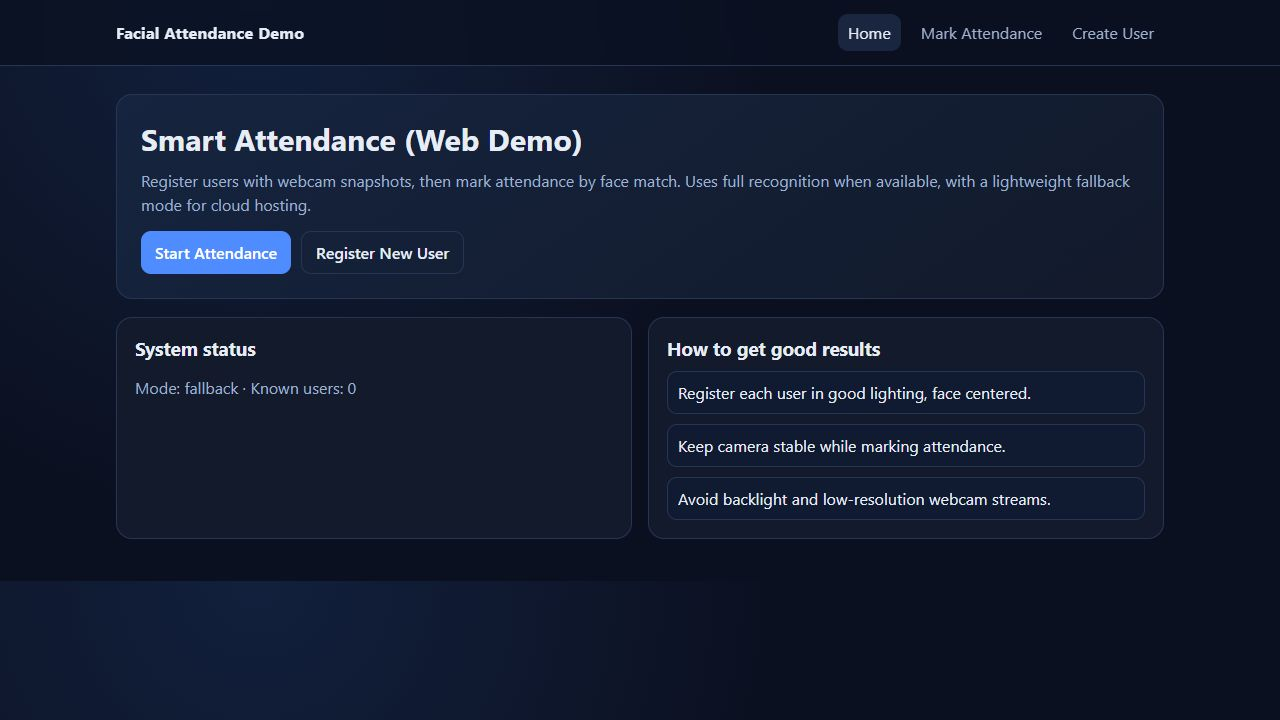
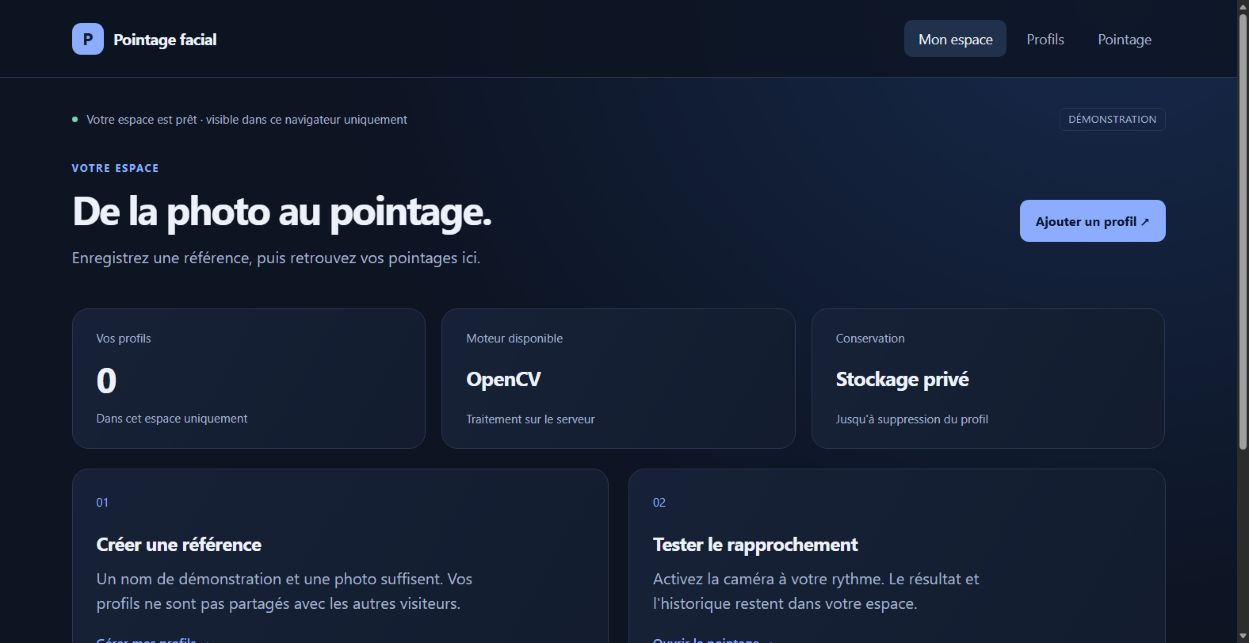
Refresh portfolio previews and describe the deployed vision workflows

diff --git a/src/data/projects.js b/src/data/projects.js
@@ -29,13 +29,13 @@ export const projects = [
     summary: { fr: "Reconnaître des signes de l’alphabet américain depuis une webcam, grâce aux repères de la main.", en: "Recognising American Sign Language alphabet signs from a webcam using hand landmarks." },
     role: { fr: "Projet de hackathon · 2e place IEEE CS", en: "Hackathon project · IEEE CS 2nd place" },
     context: { fr: "Un projet de vision par ordinateur orienté accessibilité, développé en équipe lors d’un hackathon IEEE Computer Society. Le dépôt actuel comprend une application web et un parcours d’entraînement reproductible.", en: "An accessibility-oriented computer vision project built with a team at an IEEE Computer Society hackathon. The current repository includes a web application and a reproducible training workflow." },
-    work: { fr: ["Extraction des repères de la main avec MediaPipe et traitement des images avec OpenCV.", "Classification des signes avec un Random Forest scikit-learn et sauvegarde du modèle entraîné.", "Interface Flask : capture webcam dans le navigateur et prédiction via une API."], en: ["Hand landmark extraction with MediaPipe and image processing with OpenCV.", "Sign classification with a scikit-learn Random Forest and a saved trained model.", "Flask interface with browser webcam capture and an API prediction endpoint."] },
-    outcomes: { fr: ["2e place obtenue au hackathon IA organisé par IEEE Computer Society.", "Une démo web et des scripts pour reproduire l’entraînement à partir du jeu de données ASL Alphabet."], en: ["Awarded 2nd place at the AI hackathon organised by IEEE Computer Society.", "A web demo and scripts to reproduce training from the ASL Alphabet dataset."] },
+    work: { fr: ["Extraction des repères de la main avec MediaPipe et traitement des images avec OpenCV.", "Classification des signes avec un Random Forest scikit-learn et sauvegarde du modèle entraîné.", "Interface Flask : caméra activée à la demande, prédictions serveur et arrêt automatique en quittant la page."], en: ["Hand landmark extraction with MediaPipe and image processing with OpenCV.", "Sign classification with a scikit-learn Random Forest and a saved trained model.", "Flask interface with camera activation on request, server predictions and automatic capture shutdown when leaving the page."] },
+    outcomes: { fr: ["2e place obtenue au hackathon IA organisé par IEEE Computer Society.", "Une démo guidée avec états de chargement et erreurs caméra, et des scripts pour reproduire l’entraînement à partir du jeu de données ASL Alphabet."], en: ["Awarded 2nd place at the AI hackathon organised by IEEE Computer Society.", "A guided demo with loading states and camera errors, plus scripts to reproduce training from the ASL Alphabet dataset."] },
     tech: ["Python", "MediaPipe", "OpenCV", "scikit-learn", "Flask"],
     codeUrl: "https://github.com/khayem487/asl-recognition",
     demo: { url: "https://khayem-asl.vercel.app", label: { fr: "Essayer la démo", en: "Try the demo" }, kind: "live" },
     art: "project-art/asl.svg",
-    note: { fr: "La démo exécute MediaPipe et le modèle entraîné sur le serveur. Le premier accès peut nécessiter quelques secondes de démarrage.", en: "The demo runs MediaPipe and the trained model on the server. The first visit may take a few seconds to start." }
+    note: { fr: "MediaPipe et le modèle entraîné s’exécutent sur le serveur. La caméra démarre à votre demande. Le modèle classe des signes de l’alphabet ; il ne traduit pas une conversation signée.", en: "MediaPipe and the trained model run on the server. The camera starts on request. The model classifies alphabet signs; it does not translate continuous signing." }
   },
   {
     id: "data-dashboard",
@@ -62,16 +62,16 @@ export const projects = [
     year: "",
     status: "live",
     title: { fr: "Pointage par reconnaissance faciale", en: "Facial recognition attendance" },
-    summary: { fr: "Relier capture webcam, reconnaissance et journal de présence dans un parcours de pointage.", en: "Connecting webcam capture, recognition and attendance records in one check-in workflow." },
+    summary: { fr: "Créer une référence, tester le rapprochement et gérer ses pointages dans un espace propre au navigateur.", en: "Creating a reference, testing face matching and managing attendance records in a browser-specific workspace." },
     role: { fr: "Projet de stage · Kernel Solutions & Innovation", en: "Internship project · Kernel Solutions & Innovation" },
     context: { fr: "Un projet réalisé pendant mon stage chez Kernel Solutions & Innovation pour explorer l’automatisation du suivi de présence avec Python et la vision par ordinateur.", en: "A project developed during my internship at Kernel Solutions & Innovation, exploring attendance automation with Python and computer vision." },
-    work: { fr: ["Parcours d’enregistrement d’un utilisateur à partir de captures webcam.", "Détection des visages et rapprochement avec les images de référence.", "Interface Flask de pointage et journalisation des présences."], en: ["User registration workflow using webcam snapshots.", "Face detection and matching against reference images.", "Flask check-in interface and attendance logging."] },
-    outcomes: { fr: ["Un parcours complet, de l’enregistrement au suivi des pointages récents.", "Une version cloud légère et un mode local complet avec la bibliothèque face_recognition."], en: ["A complete workflow from registration to recent attendance records.", "A lightweight cloud version and a full local mode using the face_recognition library."] },
-    tech: ["Python", "OpenCV", "Flask", "NumPy", "face_recognition"],
+    work: { fr: ["Inscription d’un profil de démonstration à partir d’une référence webcam.", "Détection des visages et rapprochement avec les images de référence.", "API Flask avec profils et historique isolés par navigateur, protection CSRF et suppression des références et pointages associés."], en: ["Demo profile registration using a webcam reference image.", "Face detection and matching against reference images.", "Flask API with browser-isolated profiles and history, CSRF protection and deletion of references and associated attendance records."] },
+    outcomes: { fr: ["Un parcours persistant : enregistrer, pointer, consulter son historique et supprimer un profil.", "Stockage privé Vercel Blob pour la démo OpenCV ; mode local complet avec la bibliothèque face_recognition."], en: ["A persistent workflow to register, check in, review history and delete a profile.", "Private Vercel Blob storage for the OpenCV demo; full local mode with the face_recognition library."] },
+    tech: ["Python", "OpenCV", "Flask", "Vercel Blob", "NumPy", "face_recognition"],
     codeUrl: "https://github.com/khayem487/Facial-Recognition-Attendance",
     demo: { url: "https://khayem-facial-attendance.vercel.app", label: { fr: "Essayer la démo", en: "Try the demo" }, kind: "live" },
     art: "project-art/attendance.svg",
-    note: { fr: "La démo cloud conserve le mode simplifié OpenCV avec inscription et journal persistants. Le mode local complet utilise face_recognition.", en: "The cloud demo retains simplified OpenCV matching with persistent registration and attendance records. The full local mode uses face_recognition." }
+    note: { fr: "L’espace est lié à ce navigateur, sans connexion par compte. Le score OpenCV indique une similarité expérimentale, sans garantir l’identité. Supprimez vos profils avant d’effacer les cookies pour retirer leurs références stockées.", en: "The workspace belongs to this browser, without an account login. The OpenCV score indicates experimental similarity, not guaranteed identity. Delete profiles before clearing cookies to remove their stored references." }
   },
   {
     id: "smart-home",

diff --git a/src/App.jsx b/src/App.jsx
@@ -224,11 +224,11 @@ const readSetting = (key, fallback) => {
 const proofMedia = {
   "asl-recognition": {
     src: "demo-previews/asl.png",
-    caption: { fr: "Interface de l’application Flask de reconnaissance ASL.", en: "Interface of the Flask ASL recognition application." },
+    caption: { fr: "La démo ASL publiée : démarrage et arrêt de la caméra, prédiction du modèle et conseils de cadrage. Capture au repos, caméra éteinte.", en: "The deployed ASL demo: camera start/stop, model prediction and framing guidance. Captured at rest with the camera off." },
   },
   "facial-attendance": {
     src: "demo-previews/facial.png",
-    caption: { fr: "Interface de l’application Flask de pointage facial.", en: "Interface of the Flask facial attendance application." },
+    caption: { fr: "L’espace de pointage publié : profils propres au navigateur, références privées et accès à l’historique. Capture d’un espace vide, sans donnée personnelle.", en: "The deployed attendance workspace: browser-specific profiles, private references and access to history. Captured in an empty workspace without personal data." },
   },
   "car-rental": {
     src: "demo-previews/rental.png",

diff --git a/README.md b/README.md
@@ -21,13 +21,13 @@
 
 | Application | Démo en ligne | Code |
 | --- | --- | --- |
-| **Reconnaissance ASL** | [Webcam et prédiction](https://khayem-asl.vercel.app) | [Python / MediaPipe / scikit-learn](https://github.com/khayem487/asl-recognition) |
-| **Pointage facial** | [Inscription et pointage](https://khayem-facial-attendance.vercel.app) | [Python / Flask / OpenCV](https://github.com/khayem487/Facial-Recognition-Attendance) |
+| **Reconnaissance ASL** | [Caméra guidée et prédiction du modèle](https://khayem-asl.vercel.app) | [Python / MediaPipe / scikit-learn](https://github.com/khayem487/asl-recognition) |
+| **Pointage facial** | [Espace privé, pointage et suppression](https://khayem-facial-attendance.vercel.app) | [Python / Flask / OpenCV / Blob privé](https://github.com/khayem487/Facial-Recognition-Attendance) |
 | **Loc Auto** | [Catalogue et réservation](https://khayem-car-rental.vercel.app) | [Java / Spring Boot / Thymeleaf](https://github.com/khayem487/car-rental-client) |
 | **Dashboard Data Achats** | [Indicateurs et graphiques](https://khayem-data-dashboard.vercel.app) | [Python / Flask / Pandas](https://github.com/khayem487/data-dashboard) |
 | **Exchange Matcher** | [Préférences et matching](https://khayem-exchange-matcher.vercel.app) | [JavaScript / Gale-Shapley](https://github.com/basstreche9/exchange-matcher) |
 | **Maison Intelligente** | [Pièces, objets et scénarios](https://khayem-smart-home.vercel.app) | [Java / Spring Boot / React](https://github.com/khayem487/Dev-Web-ING-1-S2-public) |
-| **OOP Game** | [Jouer aux trois mondes](https://khayem-oop-game.vercel.app) | [Moteur Java original / interface web](https://github.com/khayem487/oop-game-java) |
+| **OOP Game** | [Jouer la campagne de six cartes](https://khayem-oop-game.vercel.app) | [Moteur Java original / interface web](https://github.com/khayem487/oop-game-java) |
 | **HealthRadar** | [Grille et courbes de simulation](https://khayem-healthradar.vercel.app) | [Moteur Java original / Canvas](https://github.com/khayem487/Sim_cell) |
 
 Les autres projets sont présentés dans leurs fiches avec le code disponible. Un projet sans application déployée ne propose pas de faux bouton de démonstration. Exchange Matcher est un projet personnel initialement publié sous le pseudonyme [basstreche9](https://github.com/basstreche9), avec des candidats fictifs et sans connexion active à l’ENT.
@@ -60,6 +60,8 @@ Les autres projets sont présentés dans leurs fiches avec le code disponible. U
 ![Simulation et statistiques calculées par Java](public/demo-previews/healthradar.png)
 
 Captures des interfaces des applications. Les illustrations SVG des autres cartes sont conceptuelles.
+
+Les aperçus ASL et pointage facial ont été renouvelés le 30 octobre 2026 depuis les applications publiées. ASL utilise le vrai modèle, avec commandes caméra et guidage ; il classe des signes de l’alphabet sans traduire une conversation. Le pointage utilise OpenCV et Blob privé dans le cloud : chaque navigateur possède son espace, avec suppression des références et de l’historique. Cet espace n’est pas un compte utilisateur et le score de similarité ne garantit pas l’identité. Le mode local `face_recognition` reste distinct. Les captures montrent des espaces au repos, sans activer de webcam ni afficher de données personnelles.
 
 </details>
 
